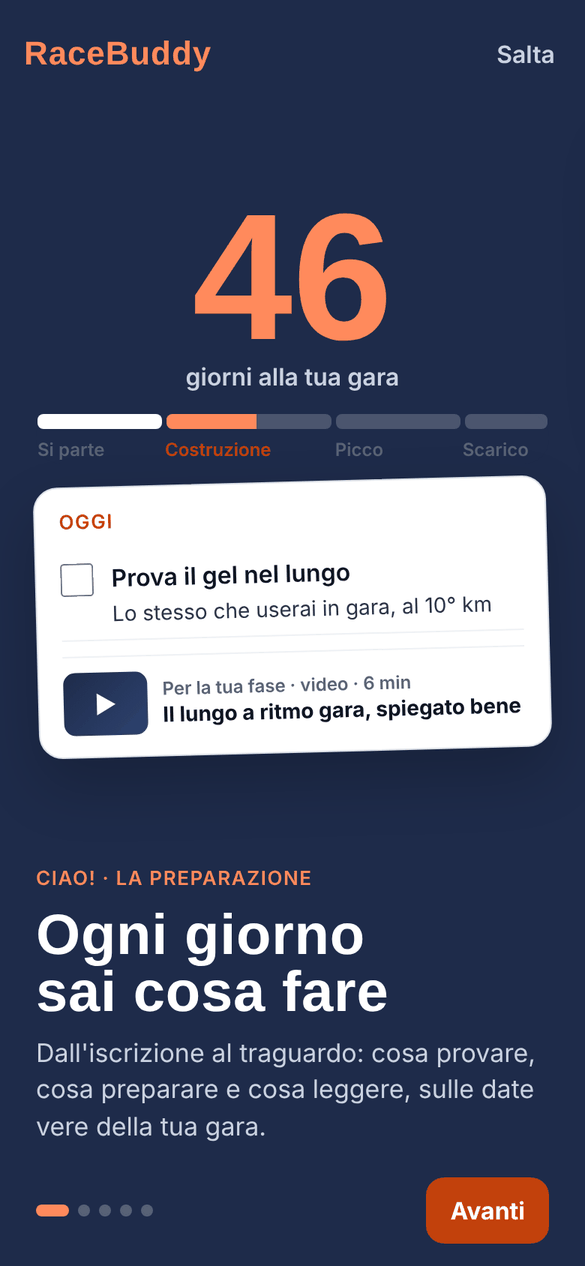
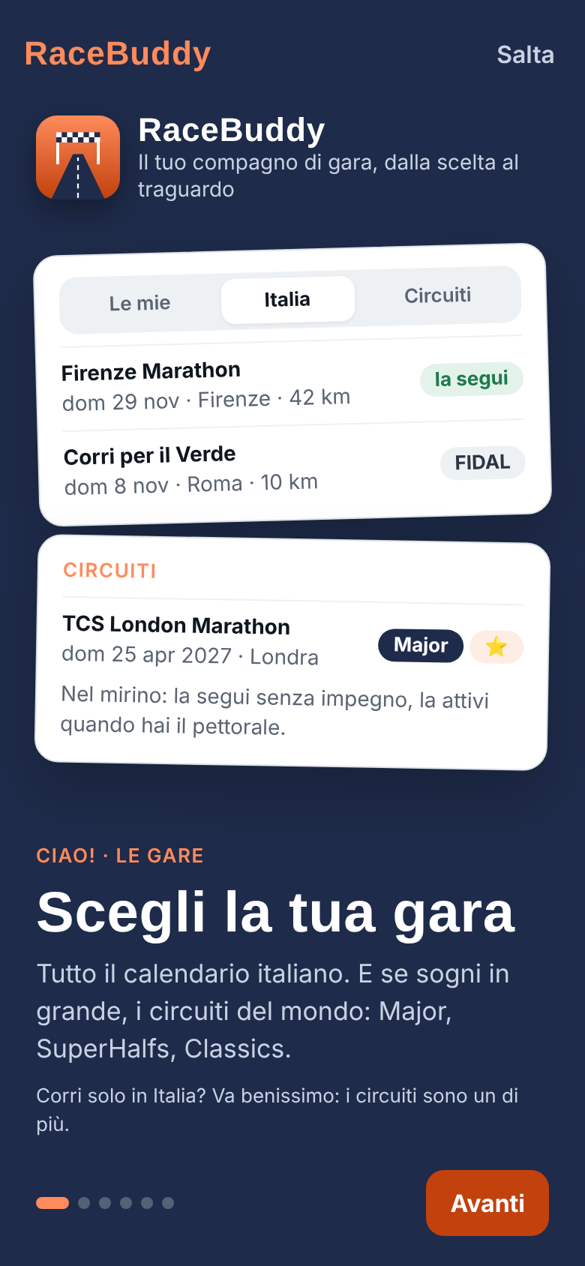
Tutorial nuovo: documentazione e schermata aggiornate
Claude-Session: https://claude.ai/code/session_0197BD1v67YhyWtDCkJvG5fX

diff --git a/CLAUDE.md b/CLAUDE.md
@@ -36,7 +36,7 @@ Nasce per il suo gruppo di amici/società (pochi utenti), ma deve poter crescere
 - Tempi dalle classifiche (`#/tempi`, spento se in `config.js` manca `tempi: true`): una sola ricerca per nome e cognome su due fonti pubbliche, con la Edge Function `tempi` (`supabase/functions/tempi/cerca.js`, testata in `tests/test_tempi.mjs` su pagine vere ridotte e anonime in `tests/fixtures/tempi/`; non salva niente, nessun segreto). Gare Podistiche Lazio (garepodistichelazio.it, `elenco-gare.php?na=COGNOME NOME&page=2&anno=…` dal 2019; anche non competitive; i risultati di oggi compaiono in giornata; gli omonimi stanno nella stessa pagina e si separano per società) + FIDAL (`result.php?cerca=` → omonimi con società e codice; scheda atleta, scheda "Risultati": "Corsa strada Km 10", "MARATONINA A", "MARATONA A"; i comitati regionali caricano con giorni di ritardo; massimo 4 schede per ricerca, davanti quella col codice società della tessera). Solo distanze esatte (±50 m) e passo tra 2:30 e 15:00 min/km (fuori, per esempio, le "6 ore" registrate come 10 km). Sul telefono: "Quale sei tu?" con le persone trovate, proposte con `L.personeProposte` (codice o nome della società della tessera, o l'unica di una fonte), scelta ricordata in `S.tempi` (nome, cognome, scelti; solo sul telefono) e poi richiusa; `L.tempiUniti` toglie i doppioni tra le fonti (vince Gare Podistiche Lazio, che ha il nome della gara; FIDAL dà solo la città: `L.nomeRisultato`). In "Com'è andata?", finché il tempo non è salvato, tre strade: Classifiche (`#/tempi?gara=id`), Strava (se collegato, rifà la ricerca del giorno) ed ENDU (link normale alla pagina dei risultati, senza target: nell'app installata si apre nel browser interno e si torna con Fine/indietro; niente iframe). Ingressi: I tuoi personali ("Cerca i miei tempi nelle classifiche": migliore per distanza, "Salva come personale", `fonte` gpl/fidal) e "Com'è andata?" ("Cerca il tempo ufficiale nelle classifiche" → `#/tempi?gara=id`, solo l'anno della gara su Gare Podistiche Lazio; "Usa" torna a `#/risultato/id?t=…&f=…` con il tempo già nelle caselle, che vale su Strava). Il primo giro parte da "Cerca", poi la ricerca parte da sola. Pubblicata dal workflow "Pubblica funzioni Supabase", che dopo la pubblicazione la prova dal vivo con un atleta pubblico (annotazione "Funzione tempi"). ENDU non si usa: robots.txt chiude la sua API interna e i termini vietano l'estrazione.
 - Immagine del risultato (`#/condividi/:id`, si apre dopo "Com'è andata?"): storia 1080×1920 o quadrato, sfondo blu/arancio/chiaro/foto della città/foto propria, due parole e posizione nel gruppo facoltative; creata sul telefono, condivisa con il menu del telefono (o scaricata). Mai loghi delle gare. Ogni risultato salva il personale `precedente`: risalvare non cancella il personale, correggere al ribasso rimette quello di prima.
 - I tuoi personali (`#/pb`): PB su 10/21/42 inseriti a mano (anche di gare passate) o aggiornati da "Com'è andata?"; tempo in tre caselle ore · min · sec (tastiera numerica, avanti da sole), controllato da `L.tempoDaParti` + `L.leggiTempo`. Invito al primo avvio (benvenuto) e una volta in Oggi.
-- Benvenuto (primo avvio, rivedibile da Io): 5 schermate dimostrative – La preparazione (conto alla rovescia animato, fasi, oggi + contenuto), Meteo e avvisi, La gara, Il gruppo (primi 3 dei personali + chi corre la gara), Partiamo (gara · personali · invito).
+- Benvenuto (primo avvio, rivedibile da Io): 5 schermate dimostrative – Scegli la tua gara (marchio con la frase "Il tuo compagno di gara", scheda Italia e scheda Circuiti con una gara nel mirino; nota "i circuiti sono un di più"), La preparazione (conto alla rovescia animato quando la schermata si vede, fasi, contenuto per la fase + scarpa che arriva al via calcolata da sola), La gara e gli avvisi (scheda dal sito ufficiale + notifica meteo), Dopo la gara (esito con tempo dalle classifiche + immagine del risultato d'esempio), Il gruppo (primi 3 dei personali + chi corre la gara) – poi Partiamo (gara · personali · invito).
 - Account e Strava (spenti finché in `config.js` non c'è `login: true` / `strava: true`): login facoltativo con email e codice di 6 cifre (Supabase Auth, sessione in `racebuddy.account`, non nei dati dell'app); `collega_account` lega profilo del gruppo e notifiche, da un altro telefono li ritrova. Strava (non richiede il login: la funzione riconosce il telefono dal codice segreto del gruppo, header `x-racebuddy-token`, online solo l'impronta) in prova per 10 tester: scarpe e km da Strava (una sola fonte: le manuali in Archivio), personali cercati tra le corse segnate come gara e confermati uno per uno, tempo proposto in "Com'è andata?" (vince il chip); scollegando, tutto resta come manuale.
 - Io: sezioni a fisarmonica (Account, Profilo con GPS, Tessera e certificato, Notifiche con preferenze, Gruppo, I miei personali, Strava, Scarpe), strumenti di prova (data simulata, link nascosto a `#/statistiche`), tutorial.
 - Statistiche (`#/statistiche`, solo per Luca): parola d'ordine (in Supabase solo l'impronta, tabella `statistiche_chiave`); attivi per giorno/settimana, nuovi, notifiche inviate per tipo, interruttori, gare più seguite, gruppo. Solo totali.

diff --git a/docs/ui.md b/docs/ui.md
@@ -17,8 +17,8 @@ blu notte per i riquadri in evidenza; tema chiaro e scuro automatici.
 
 <img src="img/ui/benvenuto.png" width="280" alt="Prima schermata del benvenuto">
 
-Al primo avvio, rivedibile da Io: cinque schermate dimostrative (La preparazione, Meteo e avvisi, La gara, Il gruppo,
-Partiamo). Si scorrono con il dito o con "Avanti"; "Salta" porta all'app.
+Al primo avvio, rivedibile da Io: sei schermate dimostrative (Scegli la tua gara, La preparazione, La gara e gli
+avvisi, Dopo la gara, Il gruppo, Partiamo). Si scorrono con il dito o con "Avanti"; "Salta" porta all'app.
 
 ## Prepara RaceBuddy
 
